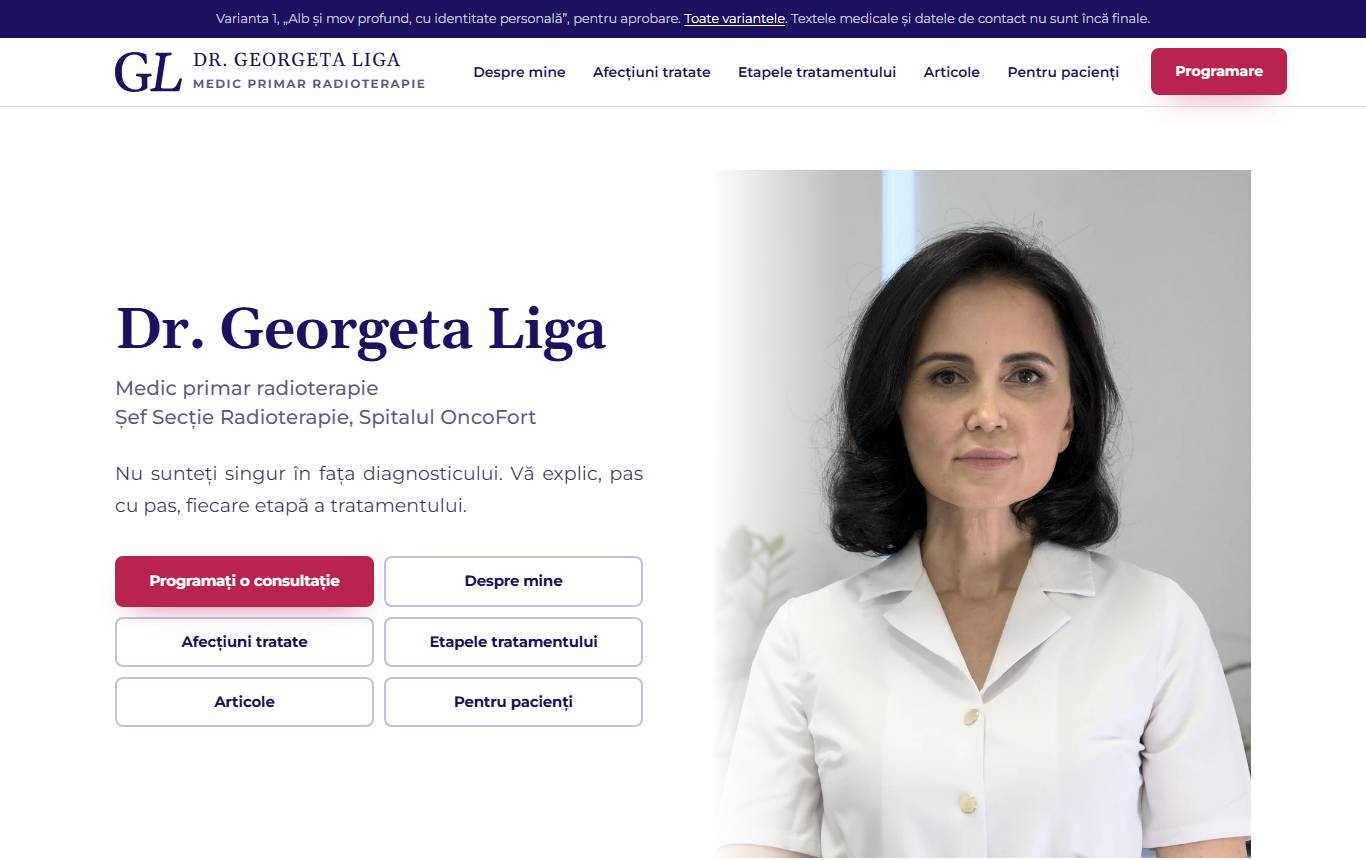
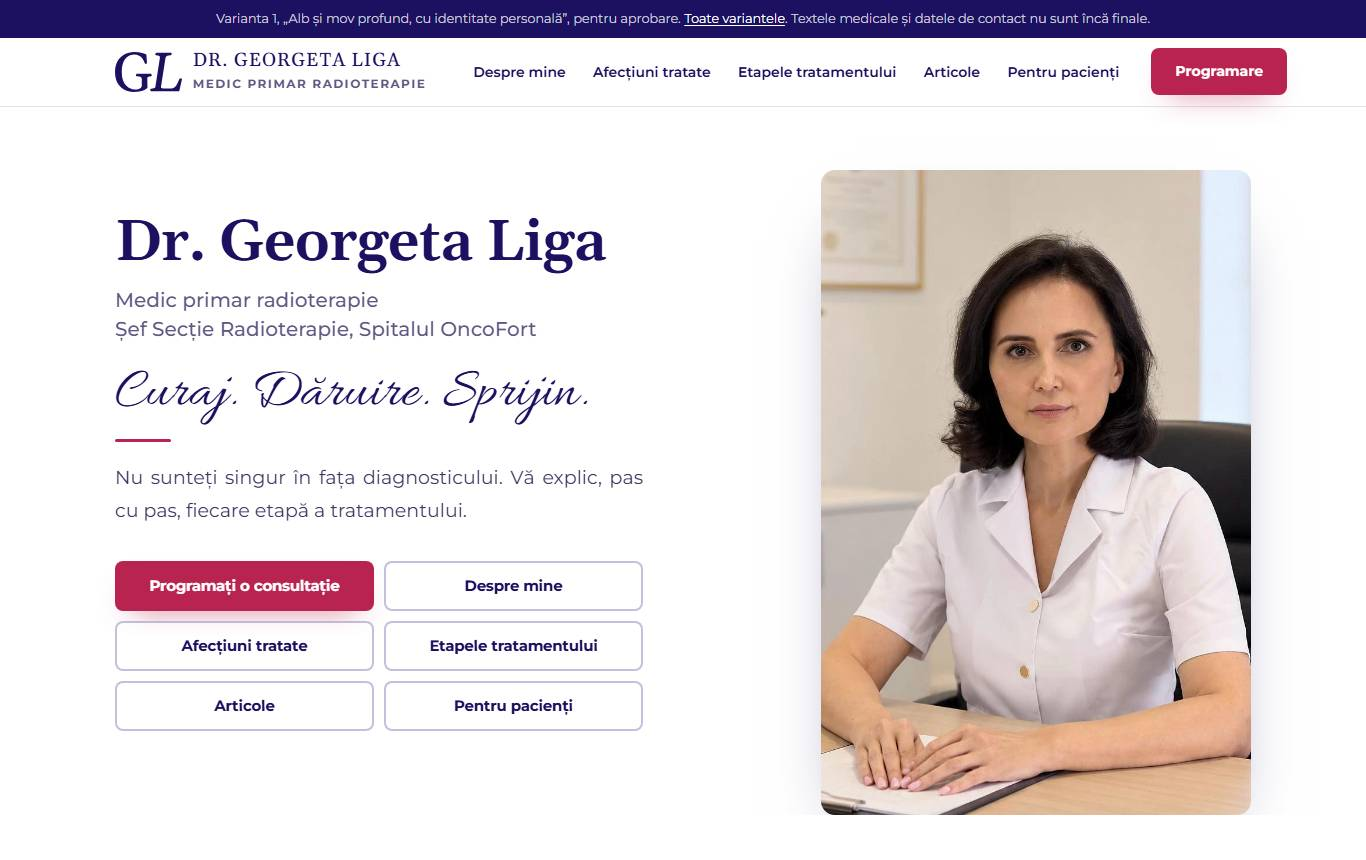
Varianta 1 aleasa: poza de la birou intreaga, sloganul si semnatura caligrafice
Cererile ei din 19.10: varianta 1 cu scrisul caligrafic, prima poza cea editata de la birou, intreaga. Legatura spre Facebook pregatita, ascunsa pana vine adresa.

diff --git a/mov-portret/assets/css/gral.css b/mov-portret/assets/css/gral.css
@@ -2211,6 +2211,11 @@ a[href^="tel:"]{white-space:nowrap}
 @font-face{font-family:Gelasio;src:url("../fonts/gelasio-latin-400-italic.woff2") format("woff2");
   font-weight:400;font-style:italic;font-display:swap}
 
+@font-face{font-family:Allura;src:url("../fonts/allura-latin-400-normal.woff2") format("woff2");
+  font-weight:400;font-style:normal;font-display:swap;unicode-range:U+0000-00FF,U+0131,U+0152-0153,U+02BB-02BC,U+02C6,U+02DA,U+02DC,U+2000-206F,U+2074,U+20AC,U+2122,U+2191,U+2193,U+2212,U+2215,U+FEFF,U+FFFD}
+@font-face{font-family:Allura;src:url("../fonts/allura-latin-ext-400-normal.woff2") format("woff2");
+  font-weight:400;font-style:normal;font-display:swap;unicode-range:U+0100-02AF,U+0304,U+0308,U+0329,U+1E00-1E9F,U+1EF2-1EFF,U+2020,U+20A0-20AB,U+20AD-20CF,U+2113,U+2C60-2C7F,U+A720-A7FF}
+
 :root{
   --accent:#b8234f;--accent-apasat:#92183d;--accent-rgb:184,35,79;
   --albastru:#3b2a8c;--bleumarin:#1c1160;--bleumarin-rgb:28,17,96;
@@ -2282,12 +2287,35 @@ a[href^="tel:"]{white-space:nowrap}
    distinga de fundal (3,5:1), cu text alb 4,6:1 (dupa blocul comun) */
 .chemare .btn--primar,.sectiune--inchis .btn--primar{background:#d6336a}
 .chemare .btn--primar:hover,.sectiune--inchis .btn--primar:hover{background:#b8234f}
-/* portretul ca in macheta aleasa: mare, fara rama, topit in fundal spre
-   stanga; pe telefon si tableta ramane fotografia cu colturi rotunjite */
+/* scrisul caligrafic (alegerea ei din 19.10): sloganul sub functie, in mov
+   profund, cu linia zmeura; si semnatura din subsol */
+.hero__slogan{
+  font-family:Allura,"Brush Script MT",cursive;font-weight:400;
+  font-size:clamp(2.3rem,1.7rem + 2.2vw,3.5rem);line-height:1.1;color:var(--bleumarin);
+  margin:20px 0 0;letter-spacing:.01em;text-align:left;
+}
+.hero__slogan::after{content:"";display:block;width:56px;height:3px;background:var(--accent);margin-top:14px;border-radius:2px}
+.hero--portret .hero__slogan + .lead{margin-top:20px}
+.subsol__marca .marca__nume{font-family:Allura,"Brush Script MT",cursive;font-weight:400;font-size:36px;letter-spacing:0;text-transform:none;line-height:1.1}
+/* prima poza intreaga, cum a cerut ea („nu doar capul, toată poza”): fara
+   decupaj pe nicio latime, colturi rotunjite si umbra; pe ecranele late,
+   inaltimea limitata ca numele si poza sa intre in primul ecran */
+.hero--portret .hero__foto{border-radius:14px;overflow:hidden;box-shadow:var(--umbra-mare);background:transparent}
+.hero--portret .hero__foto img{aspect-ratio:auto;width:100%;height:auto;object-fit:contain;max-height:none}
+.hero__media::after{display:none}
+@media (min-width:620px) and (max-width:999px){
+  .hero--portret .hero__media{max-width:460px}
+}
 @media (min-width:1000px){
-  .hero--portret .hero__foto{border-radius:0;-webkit-mask-image:linear-gradient(90deg,transparent 0,#000 24%);mask-image:linear-gradient(90deg,transparent 0,#000 24%)}
-  .hero--portret .hero__foto img{max-height:min(80vh,720px)}
-  .hero__media::after{display:none}
+  /* poza si textul pornesc de sus, imediat sub antet, ca toata poza sa
+     incapa in primul ecran si pe laptopurile de 720 px inaltime */
+  .hero--portret .hero__grid{align-items:start;min-height:0}
+  .hero--portret .hero__text{align-self:start;padding-top:clamp(16px,5vh,56px)}
+  .hero--portret .hero__media{display:flex;justify-content:flex-end;align-self:start}
+  .hero--portret .hero__foto{display:inline-block}
+  /* toata poza in primul ecran: inaltimea ferestrei minus banda, antetul si
+     spatiul de sus (masurat 19.10: cu 82vh iesea cu 15-50 px sub ecran) */
+  .hero--portret .hero__foto img{width:auto;max-width:100%;max-height:min(calc(100vh - 215px),760px)}
 }
 @media (min-width:1180px){
   .hero--portret .hero__grid{grid-template-columns:1fr 1fr;gap:56px}

diff --git a/mov-portret/index.html b/mov-portret/index.html
@@ -81,6 +81,7 @@
     <div class="hero__text">
       <h1 class="hero__nume">Dr. Georgeta Liga</h1>
       <p class="hero__rol">Medic primar radioterapie<br>Șef Secție Radioterapie, Spitalul&nbsp;OncoFort</p>
+      <p class="hero__slogan">Curaj. Dăruire. Sprijin.</p>
 
       <p class="lead">
         Nu sunteți singur în fața diagnosticului. Vă explic, pas cu pas, fiecare
@@ -99,11 +100,7 @@
 
     <div class="hero__media">
       <figure class="hero__foto">
-        <img src="assets/img/foto-portret.webp"
-             srcset="assets/img/foto-portret.webp 900w, assets/img/foto-portret-1350.webp 1350w"
-             sizes="(max-width: 619px) calc(100vw - 32px), (max-width: 999px) 560px, 540px"
-             alt="Dr. Georgeta Liga, medic primar radioterapie"
-             width="900" height="1200" fetchpriority="high" decoding="async">
+        <img src="assets/img/foto-portret-birou.webp" alt="Dr. Georgeta Liga la biroul din cabinet" width="739" height="1109" fetchpriority="high" decoding="async">
       </figure>
     </div>
   </div>
